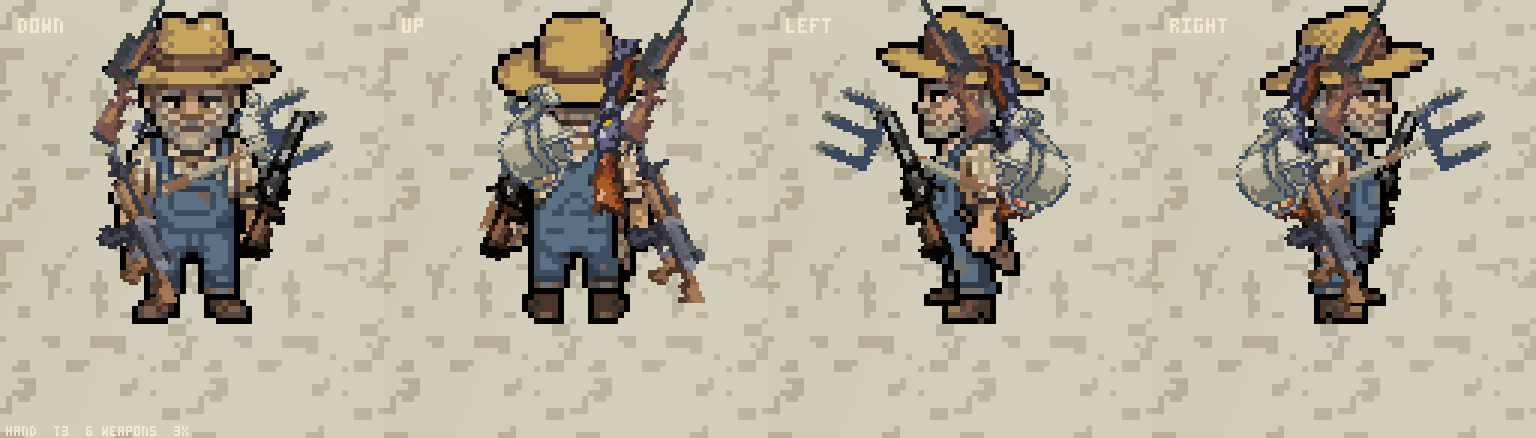
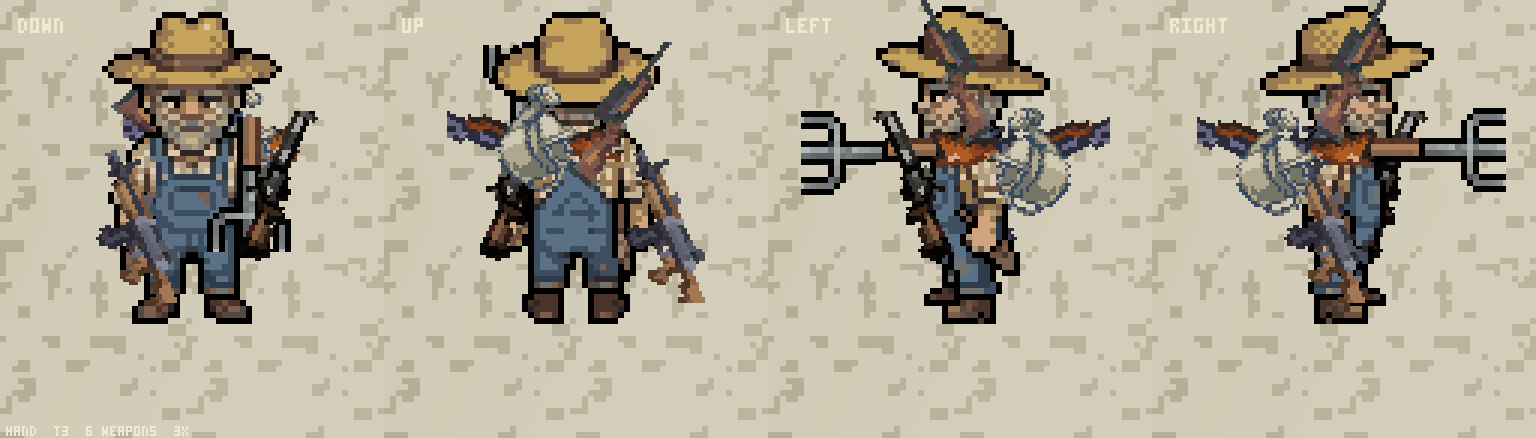
Two instruments, because a 0.16s animation cannot be photographed by waiting
`npm run play` shoots on a wave change or every thirty seconds, which is the
right rule for watching a run and useless for looking at a thrust: nine ticks
inside a 0.7s cooldown. `npm run catch` polls `window.rdf.world` in the real
browser and photographs the first frame a PREDICATE holds, so it asks the sim
whether the moment has arrived instead of guessing from pixels. It shuffles
left and right rather than holding one key, because holding D for fifteen
seconds pins the player against an arena wall and draws half the effect off
the edge of the world -- which is how the first three attempts at this shot
were wasted.

`npm run crop` is the other half. Every art judgement here is made twice: at
1x, the size the game is played at and the only one that settles whether a
thing reads, and magnified, because every anchor bug is a two-pixel
relationship invisible at 1x. Screenshots come out at the window size, which
is neither. It was a throwaway script in three separate sessions before it
was written down.

`RDF_HELD=<weaponId>` on `npm run facings`: ties on `firedAt` go to pickup
order, so the sheet could only ever show KIT[0] held -- and for The Hand that
is the pitchfork, whose RESTING pose on his back was the one thing this
instrument could not photograph, on the one pass that changed it.

That pose is checked and unchanged. The fork slings across his back like a
rifle now, tines past the hat brim, at the same -1.15 the slot always had.
[…]

diff --git a/tools/catch.ts b/tools/catch.ts
@@ -1,0 +1,72 @@
+/**
+ * Play a real run in a real browser and photograph the frame a CONDITION holds.
+ *
+ *     npm run catch -- <class> <seed> <out.png> "<predicate>" [afterTick]
+ *     npm run catch -- hand harvest tools/play/thrust/mid-thrust.png \
+ *       "(() => { const s = w.player.weapons.find(x => x.id === 'pitchfork'); \
+ *          return s && s.firedAt > 0 && w.tick - s.firedAt >= 4 && w.tick - s.firedAt <= 6 })()"
+ *
+ * `npm run play` photographs on a wave change or every thirty seconds, which is
+ * the right rule for watching a run and the wrong one for looking at a 0.16s
+ * animation: the pitchfork's thrust is nine ticks long inside a 0.7s cooldown,
+ * and catching one by waiting is hopeless. This polls `window.rdf.world` and
+ * shoots the first frame the predicate is true on.
+ *
+ * The predicate is evaluated in the page with `w` bound to the live world, so
+ * it asks the SIM whether the moment has arrived rather than guessing from
+ * pixels -- the same discipline `npm run play` reports by.
+ *
+ * `afterTick` skips the opening seconds, where the field is empty and every
+ * weapon fires on tick zero. Movement is a slow left-right shuffle so the
+ * player does not end the run pinned against an arena wall, where half the
+ * effect is drawn off the edge of the world.
+ */
+import { mkdirSync } from 'node:fs'
+import { dirname } from 'node:path'
+import { startVite, launchBrowser, stopVite } from './harness.ts'
+
+const a = process.argv.slice(2).filter((v) => v !== '--')
+const classId = a[0] ?? 'hand'
+const seed = a[1] ?? 'catch'
+const out = a[2] ?? 'tools/play/catch.png'
+const predicate = a[3] ?? 'true'
+const afterTick = Number(a[4] ?? 600)
+const PORT = 5201
+
+mkdirSync(dirname(out), { recursive: true })
+const server = await startVite(PORT)
+const browser = await launchBrowser({ headed: process.env.RDF_HEADLESS !== '1' })
+try {
+  const page = await browser.newPage()
+  await page.setViewportSize({ width: 1600, height: 900 })
+  await page.goto(`http://localhost:${PORT}/`, { waitUntil: 'domcontentloaded', timeout: 120_000 })
+  await page.waitForFunction('window.rdf && window.rdf.screens', null, { timeout: 120_000 })
+  // Passed as SOURCE, not as a closure: `window` has no type in the tools
+  // tsconfig (lib ES2022, no DOM), and `tools/play.ts` reaches into the page
+  // the same way for the same reason.
+  await page.evaluate(`window.rdf.startRun(${JSON.stringify(classId)}, ${JSON.stringify(seed)})`)
+
+  let key = 'KeyD'
+  await page.keyboard.down(key)
+  let caught = -1
+  for (let i = 0; i < 9000; i++) {
+    const hit = await page.evaluate(
+      `(() => { const w = window.rdf.world;`
+      + ` if (!w || w.tick < ${afterTick}) return -1;`
+      + ` return (${predicate}) ? w.tick : -1 })()`,
+    ) as number
+    if (hit >= 0) { caught = hit; await page.screenshot({ path: out }); break }
+    if (i > 0 && i % 60 === 0) {
+      await page.keyboard.up(key)
+      key = key === 'KeyD' ? 'KeyA' : 'KeyD'
+      await page.keyboard.down(key)
+    }
+    await page.waitForTimeout(2)
+  }
+  await page.keyboard.up(key)
+  console.log(caught >= 0 ? `caught at tick ${caught} -> ${out}` : 'never caught')
+  if (caught < 0) process.exitCode = 1
+} finally {
+  await browser.close()
+  stopVite(server)
+}

diff --git a/tools/crop.ts b/tools/crop.ts
@@ -1,0 +1,45 @@
+/**
+ * Crop a rectangle out of a PNG and magnify it by an integer factor.
+ *
+ *     npm run crop -- <in.png> <out.png> <x> <y> <w> <h> [zoom]
+ *
+ * Every art judgement in this repo is made twice: at 1x, because that is the
+ * size the game is played at and the only size that settles whether a thing
+ * reads, and magnified, because every anchor and offset bug is a two-pixel
+ * relationship invisible at 1x. Screenshots come out at the window size, which
+ * is neither -- so this is the second half of `npm run play` and `npm run
+ * scene`, and it existed as a throwaway in three separate sessions before it
+ * was written down.
+ *
+ * Nearest-neighbour, integer only: it is a magnifying glass over the shot, not
+ * a resample, and no pixel is invented.
+ */
+import { readFileSync, writeFileSync } from 'node:fs'
+import { decodePng, encodePng, blankImage } from './png.ts'
+
+const a = process.argv.slice(2).filter((v) => v !== '--')
+if (a.length < 6) {
+  console.error('usage: npm run crop -- <in.png> <out.png> <x> <y> <w> <h> [zoom]')
+  process.exit(1)
+}
+const [src, dst] = a
+const x0 = Number(a[2]); const y0 = Number(a[3])
+const w = Number(a[4]); const h = Number(a[5])
+const z = Math.max(1, Math.round(Number(a[6] ?? 4)))
+
+const img = decodePng(readFileSync(src!))
+const out = blankImage(w * z, h * z)
+for (let y = 0; y < h * z; y++) {
+  for (let x = 0; x < w * z; x++) {
+    const sx = Math.min(img.width - 1, Math.max(0, x0 + ((x / z) | 0)))
+    const sy = Math.min(img.height - 1, Math.max(0, y0 + ((y / z) | 0)))
+    const s = (sy * img.width + sx) * 4
+    const d = (y * out.width + x) * 4
+    out.data[d] = img.data[s]!
+    out.data[d + 1] = img.data[s + 1]!
+    out.data[d + 2] = img.data[s + 2]!
+    out.data[d + 3] = 255
+  }
+}
+writeFileSync(dst!, encodePng(out))
+console.log(`${dst}  ${out.width}x${out.height}  (${w}x${h} at ${x0},${y0}, ${z}x)`)

diff --git a/tools/carry-facings.ts b/tools/carry-facings.ts
@@ -31,6 +31,17 @@ const out = process.argv.slice(2).filter((a) => a !== '--')[1]
 const seed = Number(process.argv.slice(2).filter((a) => a !== '--')[2] ?? 20260903)
 
 /**
+ * `RDF_HELD=<weaponId>` puts that weapon in his hands instead of the first.
+ *
+ * Ties on `firedAt` go to the lowest index, which is pickup order, so without
+ * this the sheet can only ever show KIT[0] held -- and for The Hand that is the
+ * pitchfork, whose resting pose on his back is then the one thing this
+ * instrument cannot photograph. It stamps the sim's own `firedAt`; the rule
+ * that reads it is untouched.
+ */
+const held = process.env.RDF_HELD ?? ''
+
+/**
  * One of everything that is carried, so no slot is left to guesswork.
  *
  * `RDF_KIT=harpoon,pitchfork` narrows it, and narrowing it is how an anchor is
@@ -110,9 +121,10 @@ for (let i = 0; i < FACINGS.length; i++) {
   // Every weapon aims where he faces, so the held one is read against the
   // body rather than against wherever the last enemy happened to be.
   for (const w of p.weapons) w.aimAngle = angle
-  // `hand` belongs to whatever fired most recently; give it to the first of
-  // the kit so the same weapon is held in all four cells.
-  p.weapons[0].firedAt = 1
+  // `hand` belongs to whatever fired most recently; give it to `RDF_HELD`, or
+  // to the first of the kit, so the same weapon is held in all four cells.
+  const h = held ? p.weapons.findIndex((w) => w.id === held) : 0
+  p.weapons[h < 0 ? 0 : h].firedAt = 1
 
   const painter = new WorldPainter(VIEW_W, VIEW_H)
   painter.paint(world)
